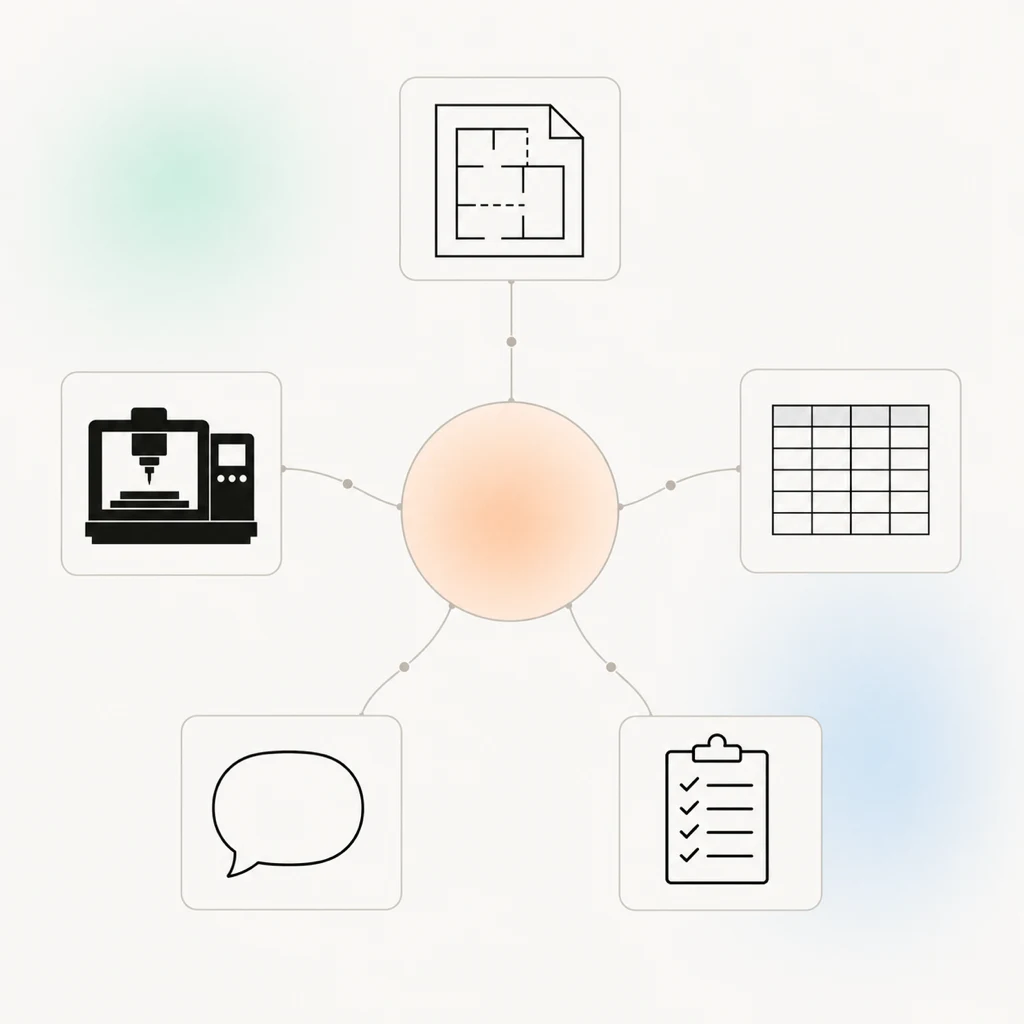
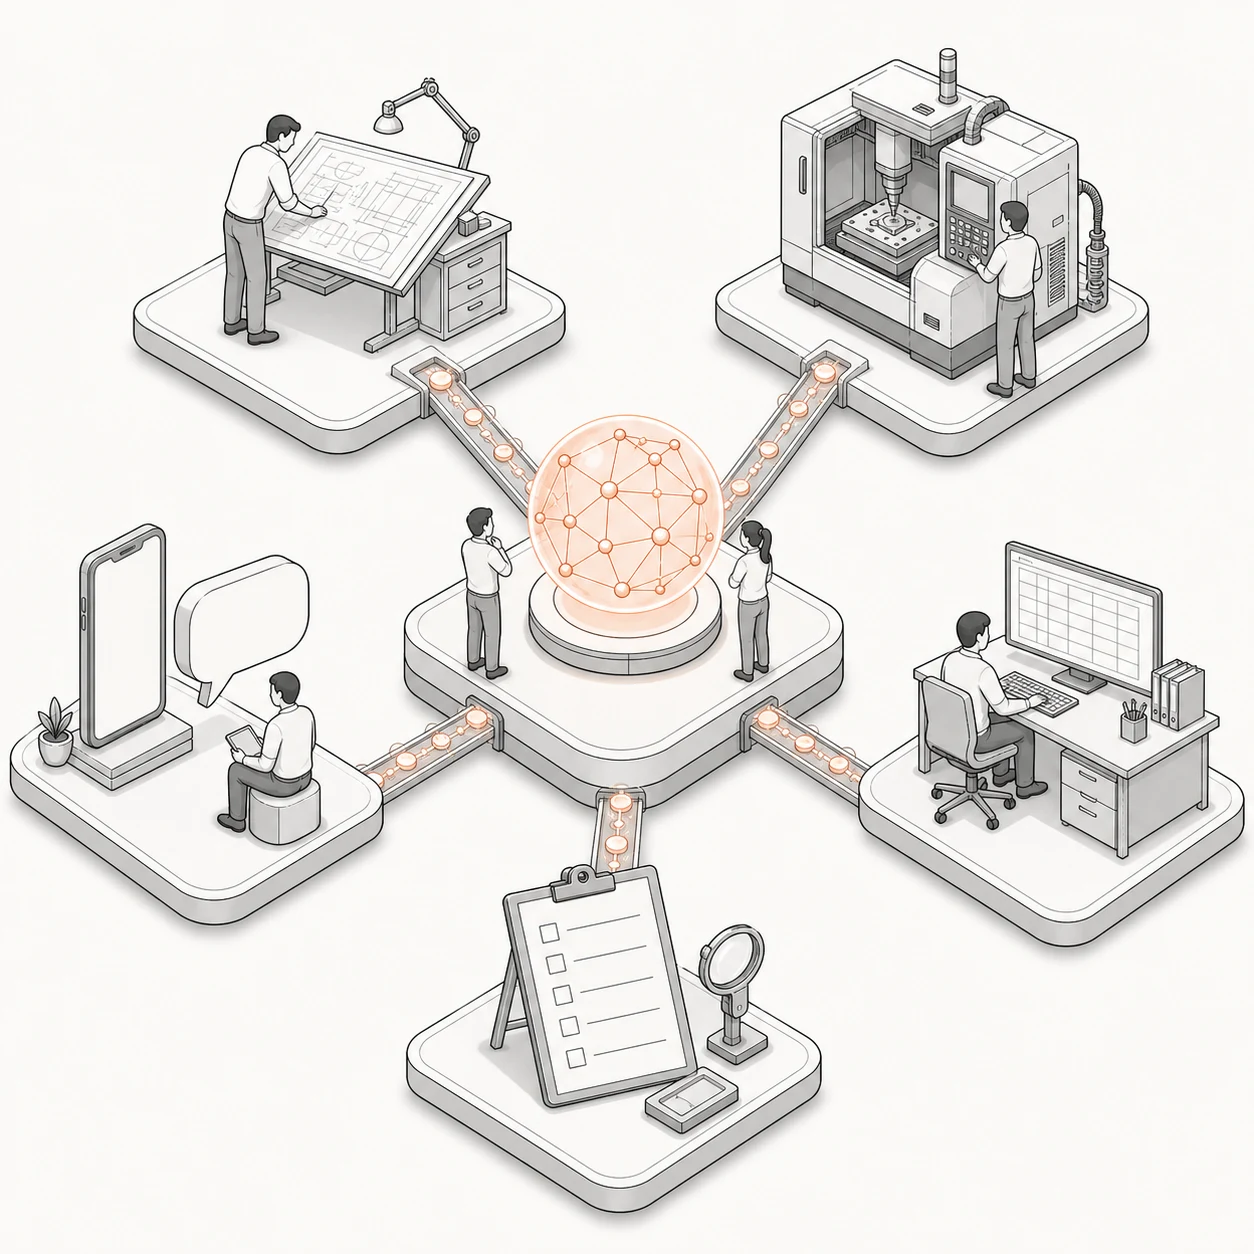
feat: 도식 일러스트 3종 아이소메트릭 라인아트로 고도화 — 레퍼런스 스타일 반영
- 얇은 잉크 윤곽선 + 단일 파스텔 액센트 + 미니어처 인물·설비 디테일의 아이소메트릭 인포그래픽 스타일
- data-map: 제도판·CNC·스프레드시트·메신저·체크리스트 5플랫폼 → 피치 지식그래프 구체
- scale-up: 파일럿 플랫폼 → 컨베이어 브리지 → 로봇암·관제실 갖춘 공장 전체 (민트)
- journey: 신청 데스크 → 화상미팅 → 현장 워크숍 → 대시보드 워크스페이스 (라벤더), 220px 크롭 해제해 풀 장면 노출

diff --git a/talos/index.html b/talos/index.html
@@ -210,7 +210,7 @@
         </p>
         <div class="split">
           <div class="split-media reveal">
-            <img src="/assets/data-map.webp" alt="회사의 데이터 지도 도식 — 도면·설비·스프레드시트·메신저·점검일지가 중앙 허브로 연결되는 다이어그램" width="1024" height="1024" loading="lazy" />
+            <img src="/assets/data-map.webp" alt="회사의 데이터 지도 아이소메트릭 도식 — 제도판·CNC 설비·스프레드시트·메신저·점검 체크리스트 5개 플랫폼이 중앙의 지식그래프 구체로 연결됨" width="1024" height="1024" loading="lazy" />
           </div>
           <div class="card-grid reveal" style="grid-template-columns: 1fr; margin-top: 0;">
             <article class="card card-orb card-orb-mint">
@@ -290,7 +290,7 @@
         <p class="overline reveal">Services</p>
         <h2 class="reveal">작게 시작해서,<br />공장 전체로 <strong>확장</strong>합니다</h2>
         <div class="section-visual reveal">
-          <img src="/assets/scale-up.webp" alt="확장 도식 — 왼쪽의 작은 파일럿 노드 3개가 오른쪽 공장 평면도 전체의 연결망으로 확장되는 다이어그램" width="1536" height="1024" loading="lazy" />
+          <img src="/assets/scale-up.webp" alt="확장 아이소메트릭 도식 — 왼쪽의 작은 파일럿 설비 플랫폼이 컨베이어 브리지를 거쳐 로봇암·관제실·랙을 갖춘 공장 전체 연결망으로 확장됨" width="1536" height="1024" loading="lazy" />
         </div>
         <div class="card-grid reveal">
           <article class="card card-featured">
@@ -343,8 +343,8 @@
       <div class="section-inner">
         <p class="overline reveal">Process</p>
         <h2 class="reveal">신청부터 파일럿까지,<br /><strong>군더더기 없이</strong></h2>
-        <div class="section-visual section-visual-flat reveal">
-          <img src="/assets/journey.webp" alt="4단계 여정 도식 — 작은 원에서 시작해 점점 커지며 마지막 잉크 원에 도달하는 경로" width="1536" height="1024" loading="lazy" />
+        <div class="section-visual reveal">
+          <img src="/assets/journey.webp" alt="4단계 여정 아이소메트릭 도식 — 진단 신청 데스크, 화상 미팅, 현장 워크숍, 완성된 대시보드 워크스페이스가 경로로 이어짐" width="1536" height="1024" loading="lazy" />
         </div>
         <ol class="timeline reveal">
           <li>
